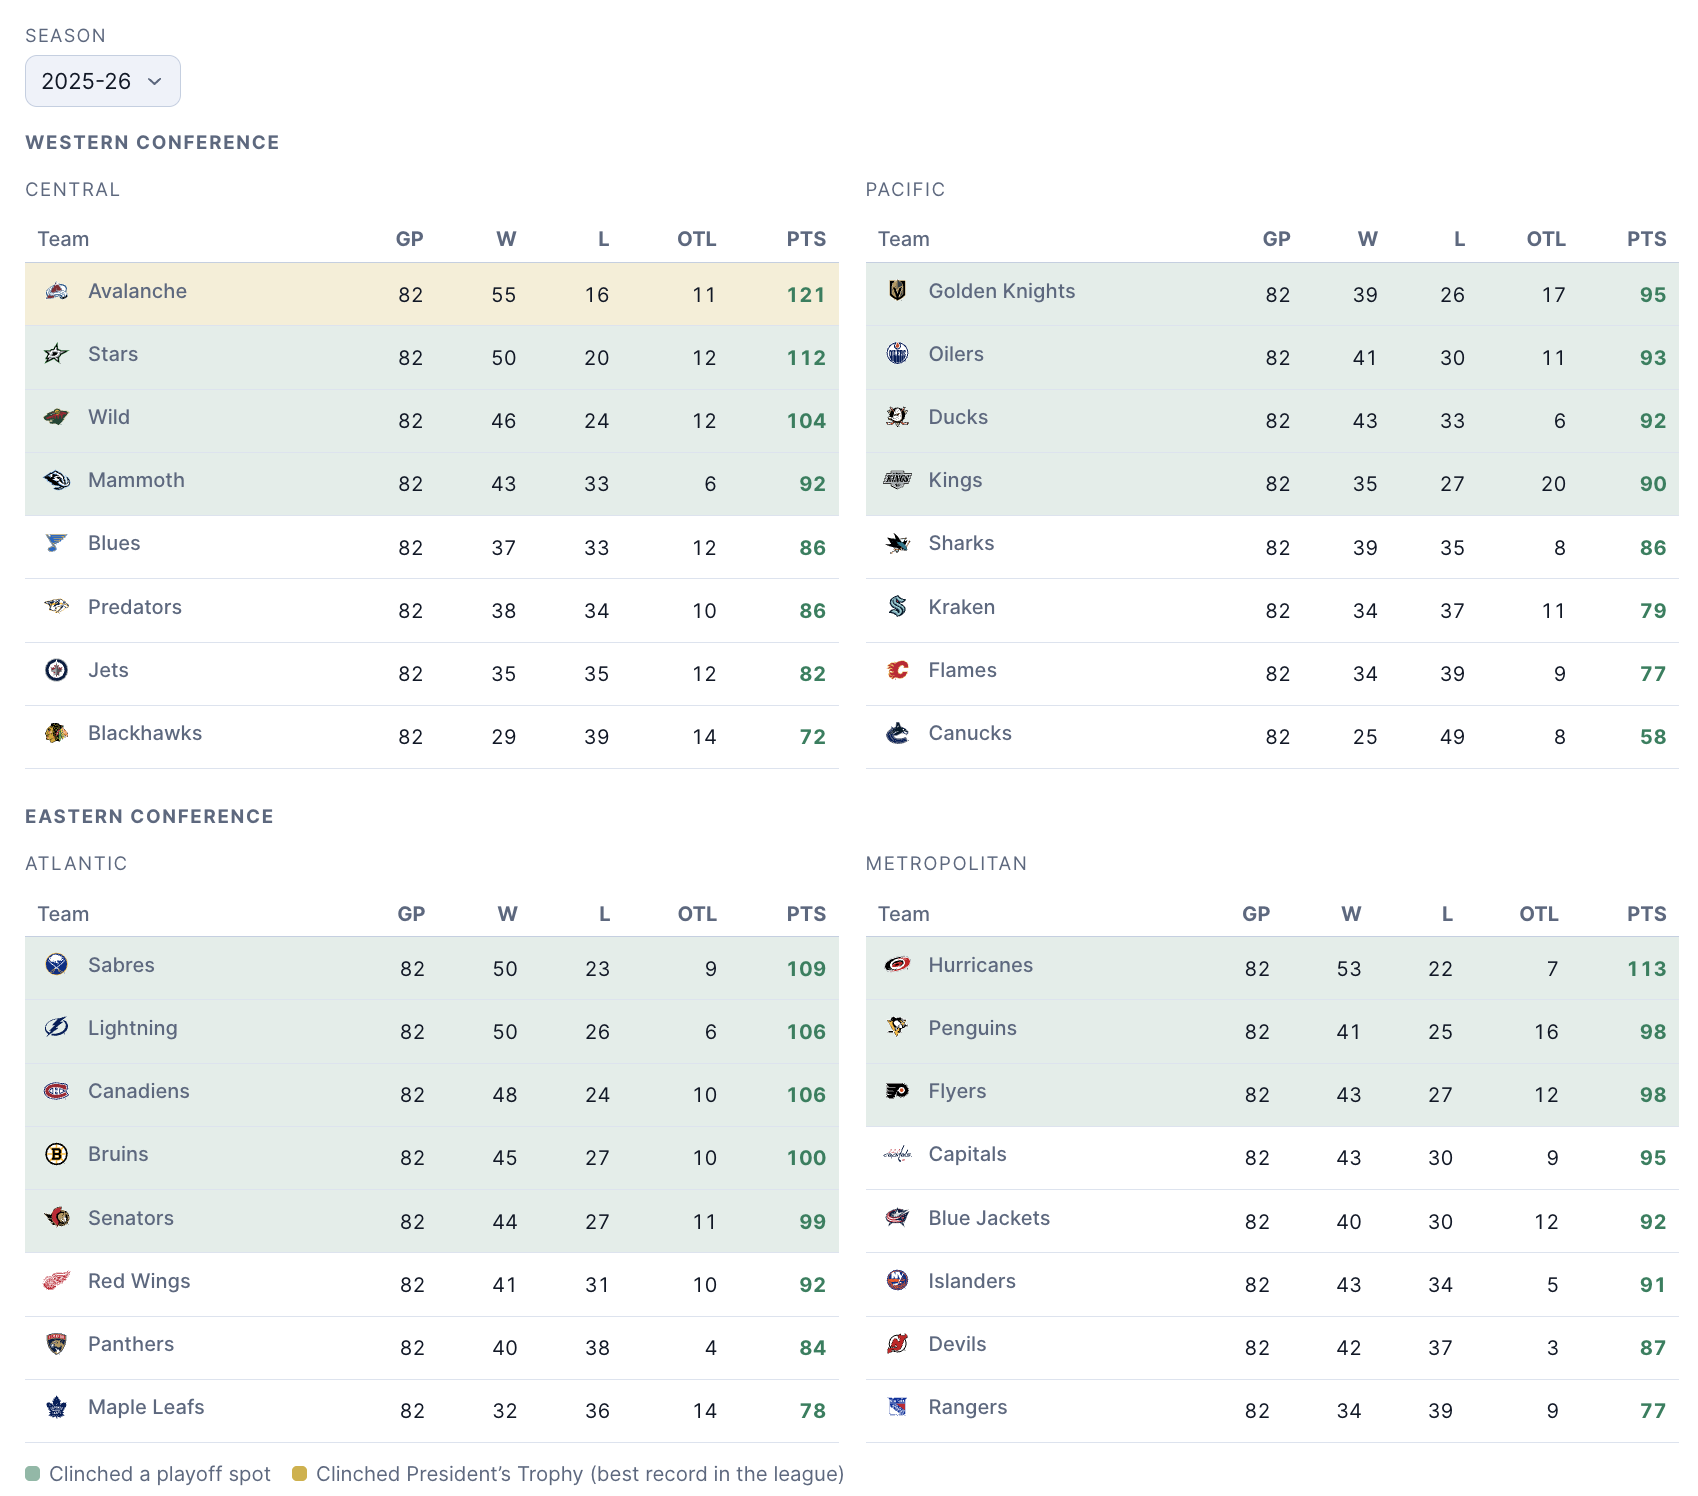
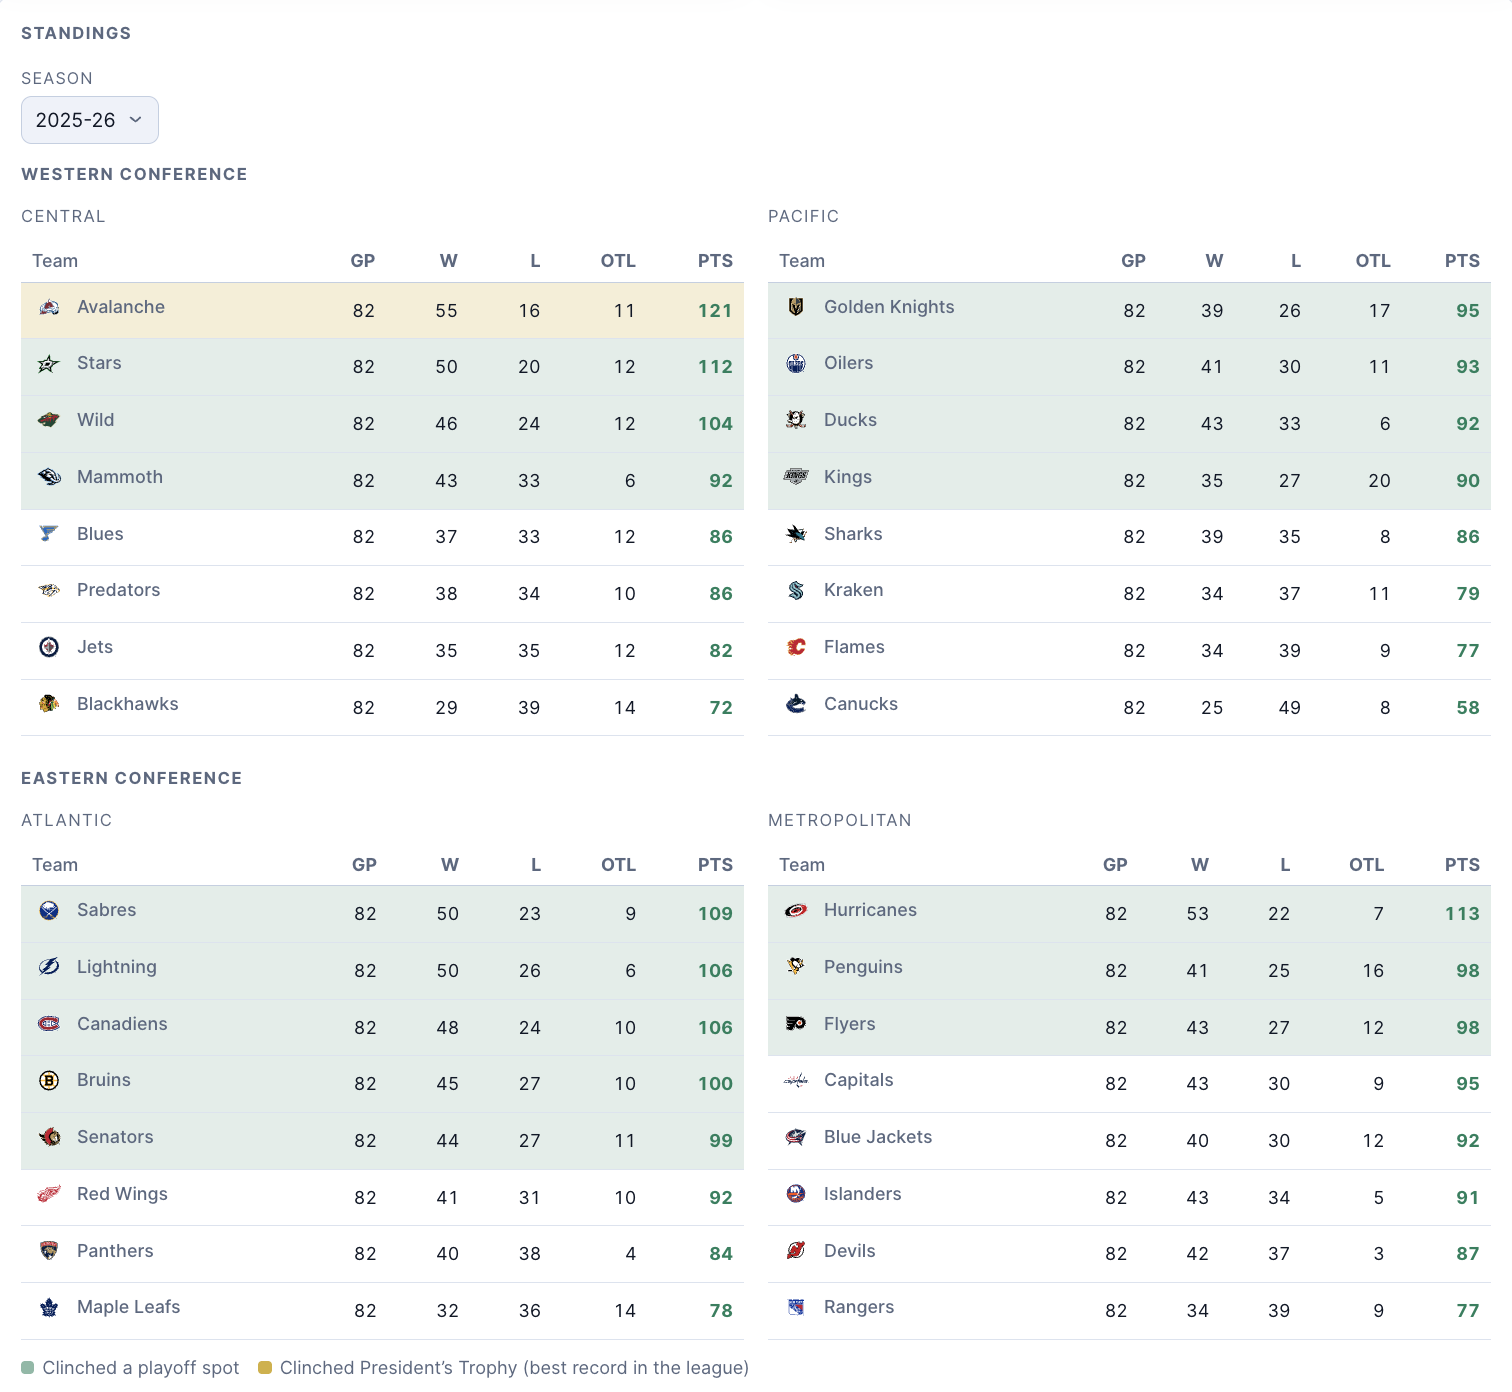
Update README with standings and scoreboard details, refresh standings screenshot

diff --git a/README.md b/README.md
@@ -18,6 +18,14 @@ This is a full-stack side project built to explore an interesting data problem: 
 
 ![Screenshot of the standings, grouped by conference and division, with team logos and clinch highlighting](docs/standings-screenshot.png)
 
+### Standings for any season
+
+Pick any season back to 1917-18 and the standings redraw themselves in whatever structure the NHL actually used that year — not today's format projected backward. Modern seasons split into their real conferences and divisions with team logos; older or one-off formats (the Original Six era with no divisions at all, the COVID-shortened 2020-21 season's four geographic groupings) fall back to whatever shape that season actually had. Rows highlight green for a clinched playoff spot and gold for the Presidents' Trophy, with a legend explaining both — and picking the season that hasn't started yet shows last year's lineup at 0-0-0 with a note, rather than an empty page.
+
+### Today's games
+
+A scoreboard above the standings shows today's games, refreshed hourly straight from the NHL's live schedule feed — scores update automatically while games are in progress. Outside the season (the off-season, or a gap day with nothing scheduled), it shows the next date that actually has games instead of leaving the section blank.
+
 ## Tech stack
 
 React · TypeScript · Vite · Chart.js · CSS
